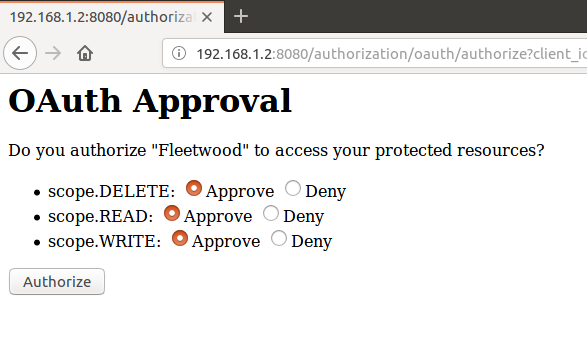
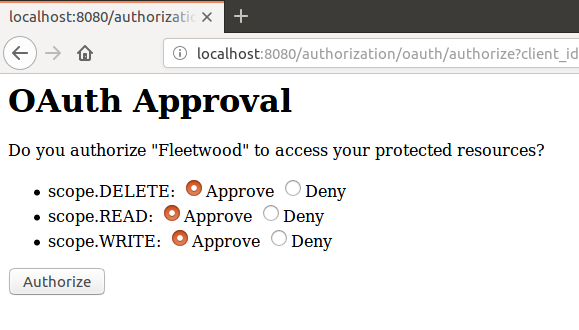
URL configuration properties updated.

Changed region(s): [[0.0, 0.0, 1.0, 0.3636], [0.0, 0.5152, 0.5907, 0.9091], [0.0, 0.3939, 0.9637, 0.4848]]

diff --git a/README.md b/README.md
@@ -96,17 +96,9 @@ Exit from container and kill it with the command:
 ```
 [sudo] docker rm -f users_create
 ```
-
-
 ## 1.3. sharewood_tokens
 
-In folder docker/tokens edit the file sharewoodTokenDB.sql and in the line:
-```
-VALUES('Fleetwood', 'SHAREWOOD', '{bcrypt}$2a$10$xMgMQRCnrZ.vf/8WxyIwrOTiFKGJF72FYGxUjnSIWQMpFxFTtoU.2', 'READ,WRITE,DELETE', 'authorization\_code', 'http://192.168.1.2:8090/fleetwood/sharewood/photosMy,http://192.168.1.2:8090/fleetwood/sharewood/sharedPhotos,http://192.168.1.2:8090/fleetwood/sharewood/updatePhoto,http://192.168.1.2:8090/fleetwood/sharewood/deletePhoto,http://192.168.1.2:8090/fleetwood/sharewood/createPhotoMulti,http://192.168.1.2:8090/fleetwood/sharewood/getToken', 'ROLE_CLIENT', '520', null, '{}', null);
-```
-replace each occurence of '192.168.1.2' by the explicit (internal) IP address that matches your host.
- 
-Run the script tokensBuild.sh then run the script tokensVolume.sh.
+In folder docker/tokens run the script tokensBuild.sh then run the script tokensVolume.sh.
 It creates a volume named sharewood\_tokens_db.
 Run the command:
 ```
@@ -137,6 +129,24 @@ Exit from container and kill it with the command:
 In addition create a blank volume named sharewood\_photos\_store with the command:
 ```
 [sudo] docker volume create sharewood\_photos\_store
+```
+
+Note that all redirect URIs used by a registered client have to be explicitly declared. This happens in this line of the file sharewoodTokenDB.sql:
+
+```
+INSERT INTO oauth\_client_details (
+  client_id, 
+  resource_ids, 
+  client_secret, 
+  scope, 
+  authorized\_grant_types, 
+  web\_server\_redirect_uri,
+  authorities,
+  access\_token_validity,
+  refresh\_token_validity,
+  additional_information,
+  autoapprove)
+VALUES('Fleetwood', 'SHAREWOOD', '{bcrypt}$2a$10$xMgMQRCnrZ.vf/8WxyIwrOTiFKGJF72FYGxUjnSIWQMpFxFTtoU.2', 'READ,WRITE,DELETE', 'authorization\_code', 'http://localhost:8090/fleetwood/sharewood/photosMy,http://localhost:8090/fleetwood/sharewood/sharedPhotos,http://localhost:8090/fleetwood/sharewood/updatePhoto,http://localhost:8090/fleetwood/sharewood/deletePhoto,http://localhost:8090/fleetwood/sharewood/createPhotoMulti,http://localhost:8090/fleetwood/sharewood/getToken', 'ROLE_CLIENT', '520', null, '{}', null);
 ```
 
 # 2. Docker Spring images creation
@@ -171,11 +181,7 @@ In fleetwood directory run the command:
 ```
 mvn spring-boot:run
 ```
-to start the client. Then hit the browser using your explicit host IP address. With my host it is:
-
-```
-http://192.168.1.2:8090/fleetwood
-```
+to start the client.
 
 ![alt text](images/clientPage.png "Client page")
 
